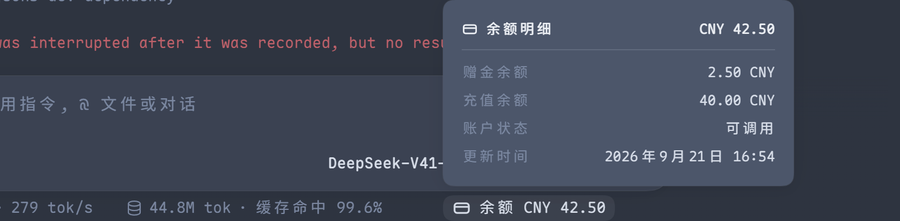
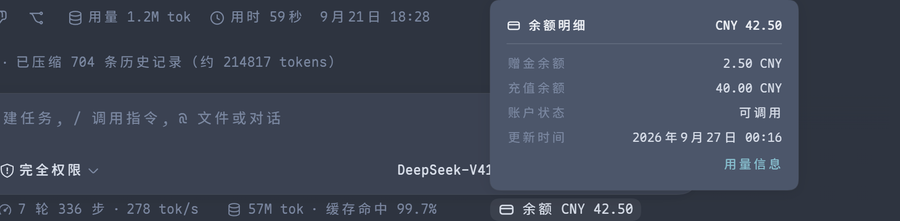
feat: 余额明细面板加「用量信息」链接
面板渲染的是 DeepSeek 自己的 /user/balance 投影，所以那条跳转只对 DeepSeek 账号有意义。
判定放在 src/usage.ts，两个信号按顺序看：会话的模型供应商（Host 的 modelSelection 投影，
由 ui-session 投递进 session 作用域槽位的标准套件），会话还没选过模型时回落到这次读数所用
端点的域名。两个信号都不成立时这一行根本不渲染，非 DeepSeek 账号的面板与之前完全一致。

端点因此进了余额 store（endpoint action），由 apply-world 的轮询随读数一起发布 —— 它属于
同一次读数的上下文，而不是设置页的。

类型上有一处妥协：useProjection 这个座位的类型入口 import 的
@deepseek-ai/dsh-api-session-controller 又 peer 依赖 Host 部署包 dsh-agent-default-model，
这条 Host 依赖图不该进插件，所以 @deepseek-ai/dsh-client-ui-session 只作为 devDependency
引入（让座位在类型上存在，运行时不 require 它），读到的那一层投影形状在 BalanceBar.tsx 里
按需声明、读取处断言一次。

tests/usage.test.mjs 跑在构建产物 lib/usage.js 上：供应商路由前缀（deepseek、
deepseek-official、DeepSeek 算，anthropic / openai / moonshot / pi-ai / 空串不算，缺席也不
算），域名与子域（deepseek.com、api.deepseek.com 算），仿冒与不可用地址
（api.deepseek.com.evil.test、notdeepseek.com、api.deepseek.com.cn、缺 scheme、
localhost）不算，以及两个信号的先后：会话供应商说了算，端点只兜底。

assets/03-balance.png 随之重拍，图里能看到多出来的那一行。

diff --git a/src/client/BalanceBar.tsx b/src/client/BalanceBar.tsx
@@ -4,8 +4,10 @@ import { createPortal } from 'react-dom'
 import { useAnchoredPosition, useDismissOnOutsidePointer } from '@deepseek-ai/dsh-client-ui-primitives'
 import type { PropsLocale, PropsRuntime, PropsStore } from '@deepseek-ai/dsh-client-ui-slots'
 import type {} from '@deepseek-ai/dsh-client-ui-conversation/client'
+import type {} from '@deepseek-ai/dsh-client-ui-session/client'
+import { usageLink } from '../usage.ts'
 import type { NordKey } from './locales.ts'
-import { BAR_ATTR, PANEL_ATTR } from './nord.ts'
+import { BAR_ATTR, PANEL_ATTR, USAGE_ATTR } from './nord.ts'
 import type { createNordBalanceStore } from './stores.ts'
 
 /** Full component props: session runtime share + store + locale seat. */
@@ -15,13 +17,17 @@ export type BalanceBarProps =
   & PropsLocale<'dshNord'>
 
 /**
- * Attributes for the two surfaces. Spread rather than written literally so the
- * selectors in `surfaceStylesheet` and the markup cannot drift apart.
+ * Attributes for the three surfaces (readout, panel, usage row). Spread rather
+ * than written literally so the selectors in `surfaceStylesheet` and the markup
+ * cannot drift apart.
  */
 const BAR_PROPS = { [BAR_ATTR]: '' } as const
 
 /** Panel container attribute. */
 const PANEL_PROPS = { [PANEL_ATTR]: '' } as const
+
+/** Attribute marking the panel's usage-link row. */
+const USAGE_PROPS = { [USAGE_ATTR]: '' } as const
 
 /** Viewport margin the placement clamp keeps (the shipped stat dialog's). */
 const PANEL_MARGIN = 12
@@ -31,6 +37,21 @@ const PANEL_GAP = 8
 
 /** Unplaced portal panel: hidden but laid out so the clamp measures real dimensions. */
 const MEASURE_STYLE: CSSProperties = { visibility: 'hidden', left: 0, top: 0 }
+
+/**
+ * The `modelSelection` projection as the panel reads it: the Host's durable
+ * model-selection fold, narrowed to the one field the usage link consults.
+ */
+interface ModelSelectionProjection {
+  /** Selection the next request should use; null before the Session has one. */
+  readonly next: { readonly provider: string } | null
+}
+
+/** The Session standard kit's projection reader (`ui-session` supplies the seat). */
+type ProjectionReader = (key: string) => ModelSelectionProjection | undefined
+
+/** Reader used when the shell ships no `ui-session` adapter: no selection, no link. */
+const NO_PROJECTION: ProjectionReader = () => undefined
 
 /** Failure codes the dictionary carries copy for. */
 const ERROR_KEYS: Record<string, NordKey> = {
@@ -77,7 +98,7 @@ function stampLabel(fetchedAt: number, t: BalanceBarProps['t']): string {
  * @param props - composed slot props.
  * @returns the bar element, or null while the readout is not in use.
  */
-export function BalanceBar({ useStore, t }: BalanceBarProps) {
+export function BalanceBar({ useStore, t, useProjection }: BalanceBarProps) {
   const phase = useStore(s => s.phase)
   const currency = useStore(s => s.currency)
   const total = useStore(s => s.total)
@@ -86,6 +107,18 @@ export function BalanceBar({ useStore, t }: BalanceBarProps) {
   const available = useStore(s => s.available)
   const fetchedAt = useStore(s => s.fetchedAt)
   const error = useStore(s => s.error)
+  const baseURL = useStore(s => s.baseURL)
+
+  // The Session's live model provider is the primary account signal. The seat
+  // itself stays `any` in this plugin — the shell's `ui-session` type entry
+  // resolves the controller types of a Host deployment package this plugin does
+  // not depend on — so `ModelSelectionProjection` above declares the one key
+  // read here and the reader is asserted once. The fallback only covers a shell
+  // that delivers no seat at all; a session-scoped entry either always has one
+  // or never does, so the hook order cannot change under a mounted readout.
+  const readProjection = (useProjection ?? NO_PROJECTION) as ProjectionReader
+  const selection = readProjection('modelSelection')
+  const usage = usageLink(selection?.next?.provider, baseURL)
 
   const [open, setOpen] = useState(false)
   const rootRef = useRef<HTMLButtonElement | null>(null)
@@ -166,6 +199,11 @@ export function BalanceBar({ useStore, t }: BalanceBarProps) {
             <dt>{t('balance.dialog.updated')}</dt>
             <dd>{stampLabel(fetchedAt, t)}</dd>
           </dl>
+          {usage === undefined ? null : (
+            <p {...USAGE_PROPS}>
+              <a href={usage} target="_blank" rel="noreferrer">{t('balance.dialog.usage')}</a>
+            </p>
+          )}
         </div>,
         document.body,
       )}

diff --git a/src/usage.ts b/src/usage.ts
@@ -1,0 +1,50 @@
+/**
+ * Which account the balance panel's usage link belongs to.
+ *
+ * The panel renders DeepSeek's own `/user/balance` projection, so a link to
+ * DeepSeek's platform is only meaningful for a DeepSeek account. Two signals
+ * decide that, consulted in this order: the Session's live model provider (the
+ * Host's durable `modelSelection` projection, which a Session that has not
+ * chosen a model yet does not carry), then the balance endpoint this plugin is
+ * configured against — the endpoint the reading actually came from.
+ */
+
+/** DeepSeek's platform usage page. */
+export const USAGE_URL = 'https://platform.deepseek.com/usage'
+
+/**
+ * Whether one provider route key is DeepSeek's.
+ * @param provider - provider route key, e.g. `deepseek-official`.
+ * @returns whether the route belongs to DeepSeek.
+ */
+export function isDeepSeekProvider(provider: string | undefined): boolean {
+  return provider !== undefined && provider.toLowerCase().startsWith('deepseek')
+}
+
+/**
+ * Whether one balance endpoint is DeepSeek's.
+ * @param baseURL - configured balance API origin.
+ * @returns whether the origin is `deepseek.com` or one of its subdomains.
+ */
+export function isDeepSeekHost(baseURL: string): boolean {
+  let host: string
+  try {
+    host = new URL(baseURL).hostname.toLowerCase()
+  } catch {
+    // A draft or malformed address never grows a usage link.
+    return false
+  }
+  return host === 'deepseek.com' || host.endsWith('.deepseek.com')
+}
+
+/**
+ * Resolve the usage link for one reading; the module note records the order the
+ * two signals are consulted in.
+ * @param provider - provider route of the Session's next model, absent until the Session has one.
+ * @param baseURL - configured balance API origin.
+ * @returns the usage page for a DeepSeek account, otherwise undefined.
+ */
+export function usageLink(provider: string | undefined, baseURL: string): string | undefined {
+  const deepseek = provider === undefined ? isDeepSeekHost(baseURL) : isDeepSeekProvider(provider)
+  return deepseek ? USAGE_URL : undefined
+}

diff --git a/src/client/nord.ts b/src/client/nord.ts
@@ -56,6 +56,9 @@ export const BAR_ATTR = 'data-dsh-nord-bar'
 /** Attribute marking the portaled balance panel. */
 export const PANEL_ATTR = 'data-dsh-nord-panel'
 
+/** Attribute marking the panel's usage-link row. */
+export const USAGE_ATTR = 'data-dsh-nord-usage'
+
 /** Maple Mono first, then the upstream Chinese and Latin fallbacks. */
 export const UI_FONT_STACK = "'Maple Mono', 'Maple Mono NF CN', ui-sans-serif, -apple-system, "
   + "BlinkMacSystemFont, 'Segoe UI', 'PingFang SC', 'Hiragino Sans GB', 'Microsoft YaHei', "
@@ -260,7 +263,8 @@ export function tableStylesheet(): string {
  * because it has interaction states (hover, `aria-expanded`) that inline styles
  * cannot express. The panel mirrors the shipped stat dialog skin
  * (`ui-chat/src/client/chat/stat-dialog.module.css`) token for token, so it
- * reads as the same surface as the two pills beside it.
+ * reads as the same surface as the two pills beside it; its DeepSeek-only usage
+ * row is the one extra, skinned as the link colour of that same skin.
  *
  * The first rule is the dock row. The composer dock is one outlet per slot, and
  * 0.1.5 lays that outlet's entries out in the composer column — every
@@ -299,5 +303,10 @@ export function surfaceStylesheet(): string {
     `[${PANEL_ATTR}] dt,[${PANEL_ATTR}] dd{min-width:0;margin:0;}`,
     `[${PANEL_ATTR}] dd{color:var(--dsw-alias-label-secondary);font-variant-numeric:tabular-nums;`
     + 'text-align:right;}',
+    // The usage row is a DeepSeek-only extra, so it is simply absent for any
+    // other account; right-aligned, it reads as one more row of the same list.
+    `[${PANEL_ATTR}] > p[${USAGE_ATTR}]{display:flex;justify-content:flex-end;margin:8px 0 0;}`,
+    `[${PANEL_ATTR}] > p[${USAGE_ATTR}] a{color:var(--dsw-alias-link);text-decoration:none;}`,
+    `[${PANEL_ATTR}] > p[${USAGE_ATTR}] a:hover{text-decoration:underline;}`,
   ].join('')
 }

diff --git a/src/client/stores.ts b/src/client/stores.ts
@@ -62,11 +62,18 @@ export interface NordBalanceState {
   fetchedAt: number
   /** Failure code resolved through the `error.*` dictionary keys. */
   error: string
+  /**
+   * Balance endpoint the poll is configured against. The panel's usage link
+   * falls back to it when the Session carries no model selection, so the
+   * endpoint travels with the reading rather than with the settings card.
+   */
+  baseURL: string
 }
 
 /** Declared write surface of the balance bar. */
 type NordBalanceActions = {
   clear: (draft: NordBalanceState) => void
+  endpoint: (draft: NordBalanceState, baseURL: string) => void
   loading: (draft: NordBalanceState) => void
   ready: (draft: NordBalanceState, payload: BalancePayload) => void
   failed: (draft: NordBalanceState, error: string) => void
@@ -87,9 +94,11 @@ export function createNordBalanceStore(): EngineStoreHandle<NordBalanceState, No
       available: true,
       fetchedAt: 0,
       error: '',
+      baseURL: DEFAULTS.baseURL,
     }),
     actions: {
       clear: (d) => { d.phase = 'idle'; d.error = '' },
+      endpoint: (d, baseURL) => { d.baseURL = baseURL },
       // A refresh keeps the last reading on screen — the bar is a status strip,
       // and swapping the numbers for a pending label every interval would blank
       // an open panel. Only a first load, or one after a failure, is pending.

diff --git a/tsdown.config.ts b/tsdown.config.ts
@@ -4,6 +4,8 @@
  * - `src/index.ts`        → `lib/index.js`   the Node half the Loader mounts.
  * - `src/balance.ts`      → `lib/balance.js` the balance projection on its own,
  *   so `npm test` runs it under plain Node without booting the plugin.
+ * - `src/usage.ts`        → `lib/usage.js`   the usage-link decision, split off
+ *   the browser half for the same reason.
  * - `src/client/index.ts` → `lib/client.js`  the browser half the Web shell
  *   fetches through the `/plugins` combo route.
  *
@@ -39,7 +41,7 @@ const isPlatformModule = (specifier: string): boolean => PLATFORM_MODULES.includ
 const config: UserConfig[] = [
   {
     name: PACKAGE_NAME,
-    entry: ['src/index.ts', 'src/balance.ts'],
+    entry: ['src/index.ts', 'src/balance.ts', 'src/usage.ts'],
     outDir: 'lib',
     format: ['esm'],
     platform: 'node',

diff --git a/src/client/locales.ts b/src/client/locales.ts
@@ -30,6 +30,7 @@ export const zh = {
   'balance.dialog.available': '可调用',
   'balance.dialog.updated': '更新时间',
   'balance.dialog.stamp': '{y}年{m}月{d}日 {time}',
+  'balance.dialog.usage': '用量信息',
   'error.credentials-missing': '未配置 DEEPSEEK_API_KEY',
   'error.credentials-unavailable': '凭据服务不可用',
   'error.disabled': '已关闭',
@@ -66,6 +67,7 @@ export const en: Record<NordKey, string> = {
   'balance.dialog.available': 'Usable',
   'balance.dialog.updated': 'Updated',
   'balance.dialog.stamp': '{y}-{m}-{d} {time}',
+  'balance.dialog.usage': 'Usage',
   'error.credentials-missing': 'DEEPSEEK_API_KEY is not configured',
   'error.credentials-unavailable': 'Credential service unavailable',
   'error.disabled': 'Disabled',

diff --git a/src/client/index.ts b/src/client/index.ts
@@ -196,6 +196,9 @@ export function apply(ctx: ClientContext): void {
 
     const start = (value: Config): void => {
       stop()
+      // The endpoint travels with the reading: the panel's usage link falls
+      // back to it when the Session carries no model selection.
+      publish(actions => { actions.endpoint(value.baseURL) })
       if (!value.balanceEnabled) {
         publish(actions => { actions.clear() })
         return

diff --git a/DEVELOPMENT.md b/DEVELOPMENT.md
@@ -9,6 +9,7 @@ src/index.ts               Host 半边：设置段 + GET /nord/balance 路由
 src/config.ts              两侧共用的配置类型、默认值与 NS / BALANCE_PATH 常量
 src/schema.ts              Host 独有的 durable schema，唯一 import schemastery 的模块
 src/balance.ts             余额载荷类型，以及上游文档到载荷的投影
+src/usage.ts               用量信息链接的判定：会话模型供应商优先，余额地址兜底
 src/client/index.ts        浏览器半边：主题层、字体、样式表、设置卡、余额轮询、两个 slot 注册
 src/client/nord.ts         Nord 调色板（116 token）、字体栈、余额表面与宽表格补丁的 CSS
 src/client/BalanceBar.tsx  余额读数与其明细面板
@@ -16,6 +17,7 @@ src/client/NordCard.tsx    设置行的开关与字段
 src/client/stores.ts       设置卡与余额的 slot store
 src/client/locales.ts      `dshNord` 命名空间的中英文案
 tests/balance.test.mjs     投影的 `node --test` 规格
+tests/usage.test.mjs       用量链接判定的 `node --test` 规格
 tests/balance-mock.mjs     上游 `/user/balance` 的本地替身
 scripts/release-lab.mjs    隔离 `$DSH_HOME`，逐个验证四种安装方式（见「发布后的四种安装方式」）
 scripts/publish-npm.mjs    发布流水线：六道闸门 + tarball 核查 + 真发布（见「发布到 npm」）
@@ -32,6 +34,7 @@ assets/                    README 截图
 | Maple Mono 字体 | 一枚 `<style>` 里的 `:root` 规则 |
 | 余额 | Host 侧 `webServer` 上的 `GET /nord/balance`，用 `ctx.credentials` 解析 `DEEPSEEK_API_KEY`；浏览器侧是 dock 里一枚可点击读数 + 明细面板 |
 | 余额投影 | `src/balance.ts` 的 `parseBalance()`：上游文档 → 载荷，Host 路由与 `npm test` 共用同一份实现 |
+| 用量信息链接 | `src/usage.ts` 的 `usageLink()`：会话模型供应商（Host 的 `modelSelection` 投影）优先，取不到时看余额地址域名；非 DeepSeek 账号面板不变 |
 | 设置项 | Host `ctx.settings.installSection()` + 浏览器侧 `settings.general.item` 行，持久化进 `settings.yaml` |
 | 设置卡控件 | 模块表基线里的 `@deepseek-ai/dsh-client-ui-primitives`：布尔项用 `Switch`、字段用 `Input`，行距与配色走内联 style |
 | 余额表面的样式 | 插件自己的一枚 `<style>`（`surfaceStylesheet`）：dock 行规则、读数皮肤、面板皮肤 |
@@ -118,6 +121,17 @@ div[data-slot="conversation.composer.dock"]:has(> [data-dsh-nord-bar]) {
 | 更新时间 | 浏览器本地时间 | `fetchedAt`（Host 读取时刻） |
 
 轮询不做清屏：`loading` 只在「还没有成功读数」（首次加载或上次失败）时才进入 pending，成功过一次之后原地更新。否则每 15–60 秒会让面板跟着读数一起闪掉一次。
+
+### 用量信息这一行为什么要检测
+
+面板底部的「用量信息」链接（→ `platform.deepseek.com/usage`，右对齐，`target="_blank"`）只对 DeepSeek 账号有意义，判定在 `src/usage.ts` 里，两个信号按顺序看：
+
+1. **会话的模型供应商**。`conversation.composer.dock` 是 session 作用域槽位，shell 的 `ui-session` 适配器会往每个 session 作用域条目投递标准套件，其中 `useProjection('modelSelection')` 就是 Host 对当前会话的模型选择投影（`{ lastUsed, pending }`，客户端视图多一个 `next`）。`next.provider` 以 `deepseek` 开头即算 DeepSeek——`dsh-llm-deepseek` 注册的路由键正是 `deepseek-official`。
+2. **余额地址兜底**。会话还没选过模型时投影是空的（新会话、没发过消息），此时看这次读数用的端点：`baseURL` 的域名是 `deepseek.com` 或其子域才算 DeepSeek。端点因此进了余额 store（`endpoint` action），由 apply-world 的轮询随读数一起发布——面板的数字本来就来自那条轮询，端点属于同一次读数的上下文。
+
+两个信号都不成立时这一行根本不渲染，面板与之前完全一致。
+
+类型上有一处妥协：`useProjection` 这个座位由 shell 的 `ui-session` 投递，而它的类型入口 import 的 `@deepseek-ai/dsh-api-session-controller` 又 peer 依赖 Host 部署包 `dsh-agent-default-model`，这条 Host 依赖图不该进插件。所以 `@deepseek-ai/dsh-client-ui-session` 只作为 devDependency 引入（让座位在类型上存在，运行时不 require 它），读到的那一层投影形状在 `BalanceBar.tsx` 里按需声明、读取处断言一次。运行时 `ui-session` 是 web profile 的常驻插件，座位一定在场；`?? NO_PROJECTION` 只是让「某个 shell 不投递座位」也不至于把读数带崩（同一挂载期内座位不会有、也不会消失，因此 hook 顺序稳定）。
 
 ### 为什么 schema 单独一个文件
 

diff --git a/README.md b/README.md
@@ -8,7 +8,7 @@
 
 - **Nord 配色** —— 116 个设计 token，浅色与深色两套，跟随 dsh 的「外观」设置切换；不写死颜色、不改 DOM，卸载即还原。
 - **Maple Mono 字体** —— 界面字体与代码字体一起换，跟随「字号大小」设置派生。
-- **余额读数** —— composer 下方，与官方的轮次/步骤统计在同一行。点击弹出明细面板。
+- **余额读数** —— composer 下方，与官方的轮次/步骤统计在同一行。点击弹出明细面板。用 DeepSeek 模型时（或余额接口就是 DeepSeek 时），面板底部多一行「用量信息」，直达 [platform.deepseek.com/usage](https://platform.deepseek.com/usage)；其他供应商的面板保持原样。
 
   ![余额明细](assets/03-balance.png)
 
